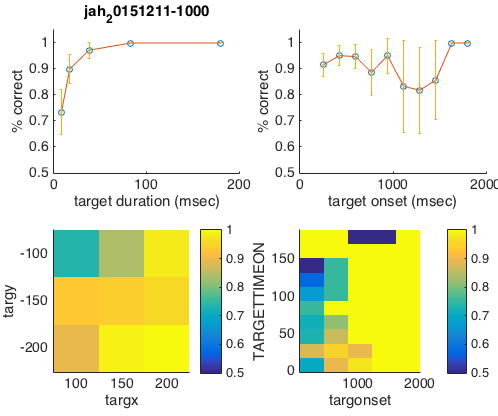
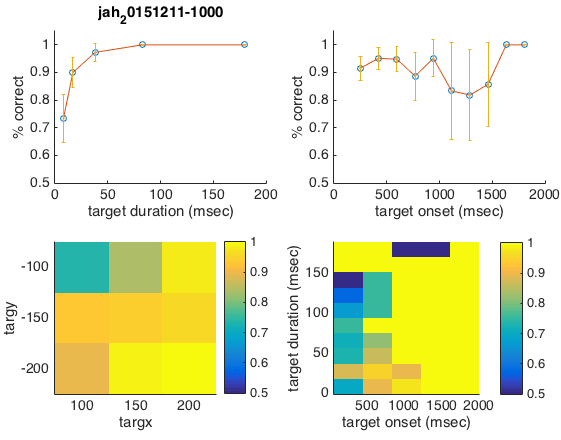
bug in plot labels

diff --git a/+behav/plotPctCor2d.m b/+behav/plotPctCor2d.m
@@ -1,9 +1,15 @@
-function plotPctCor2d(B, xnm, ynm)
+function plotPctCor2d(B, xnm, ynm, xlbl, ylbl)
     if nargin < 2
         xnm = 'targx';
     end
     if nargin < 3
         ynm = 'targy';
+    end
+    if nargin < 4
+        xlbl = xnm;
+    end
+    if nargin < 5
+        ylbl = ynm;
     end
 
     condX = [B.(xnm)];
@@ -21,12 +27,12 @@ function plotPctCor2d(B, xnm, ynm)
         end
     end
     hold on;
-    imagesc(xs, ys, prcs);
+    imagesc(xs, ys, prcs');
     axis image; axis normal;
 %     colormap hot;
     set(gca, 'FontSize', 14);
     caxis([0.5 1.0]);
     colorbar;
-    xlabel(xnm);
-    ylabel(ynm);
+    xlabel(xlbl);
+    ylabel(ylbl);
 end

diff --git a/+behav/quickPmf.m b/+behav/quickPmf.m
@@ -13,7 +13,8 @@ function quickPmf(expnm)
     subplot(2,2,3);
     behav.plotPctCor2d(B, 'targx', 'targy');
     subplot(2,2,4);
-    behav.plotPctCor2d(B, 'targonset', 'TARGETTIMEON');
+    behav.plotPctCor2d(B, 'targonset', 'TARGETTIMEON', ...
+        'target onset (msec)', 'target duration (msec)');
     set(gcf, 'color', 'w');
 
 end
